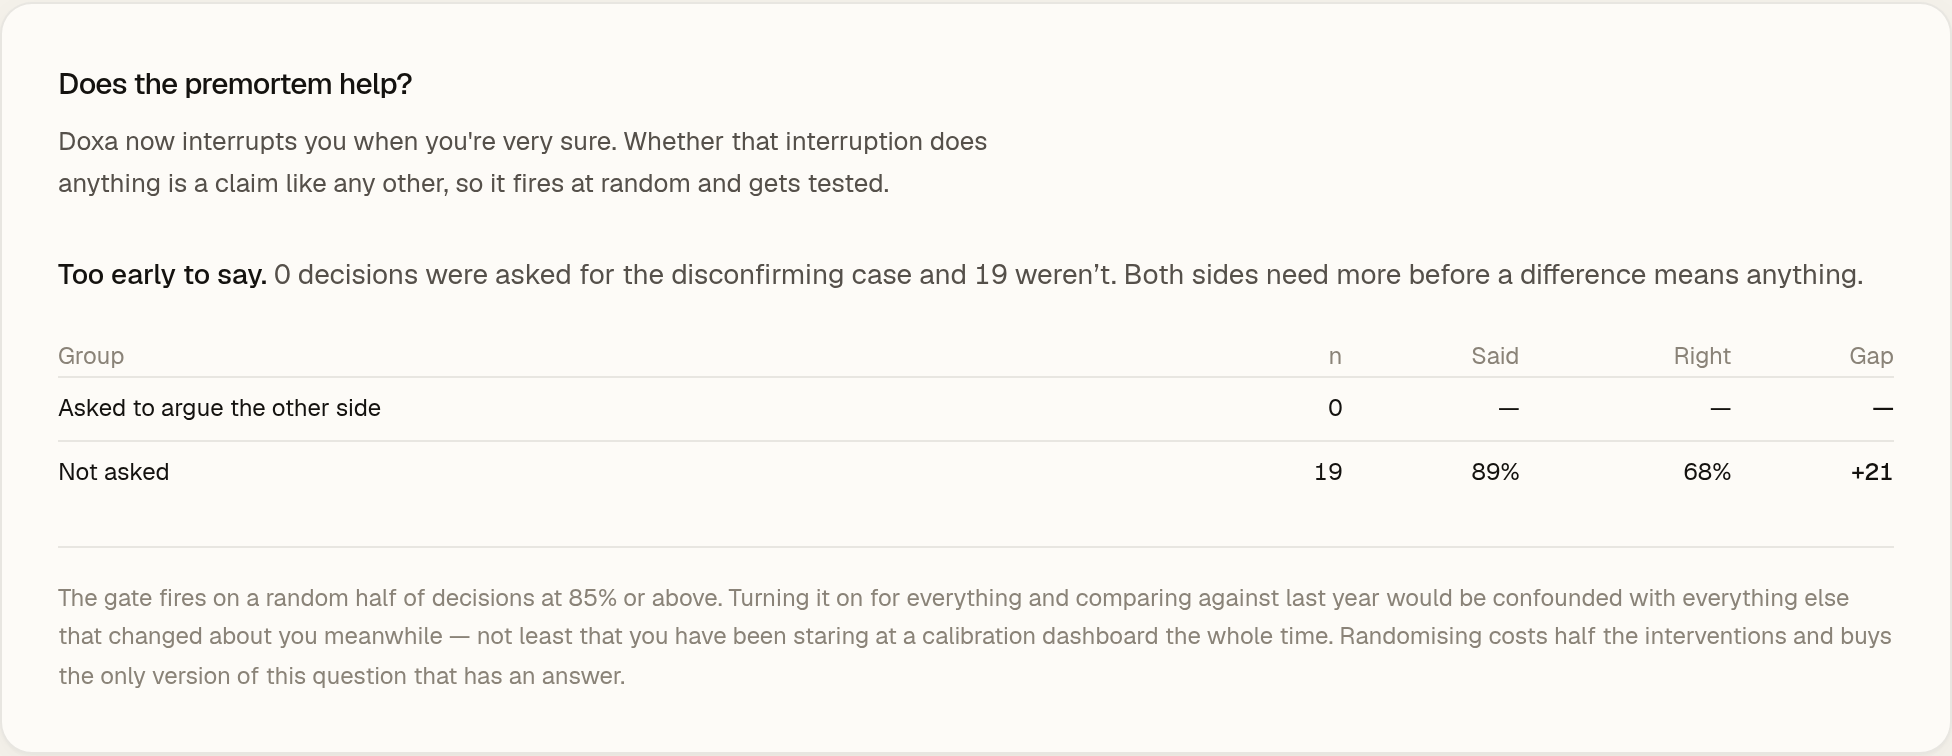
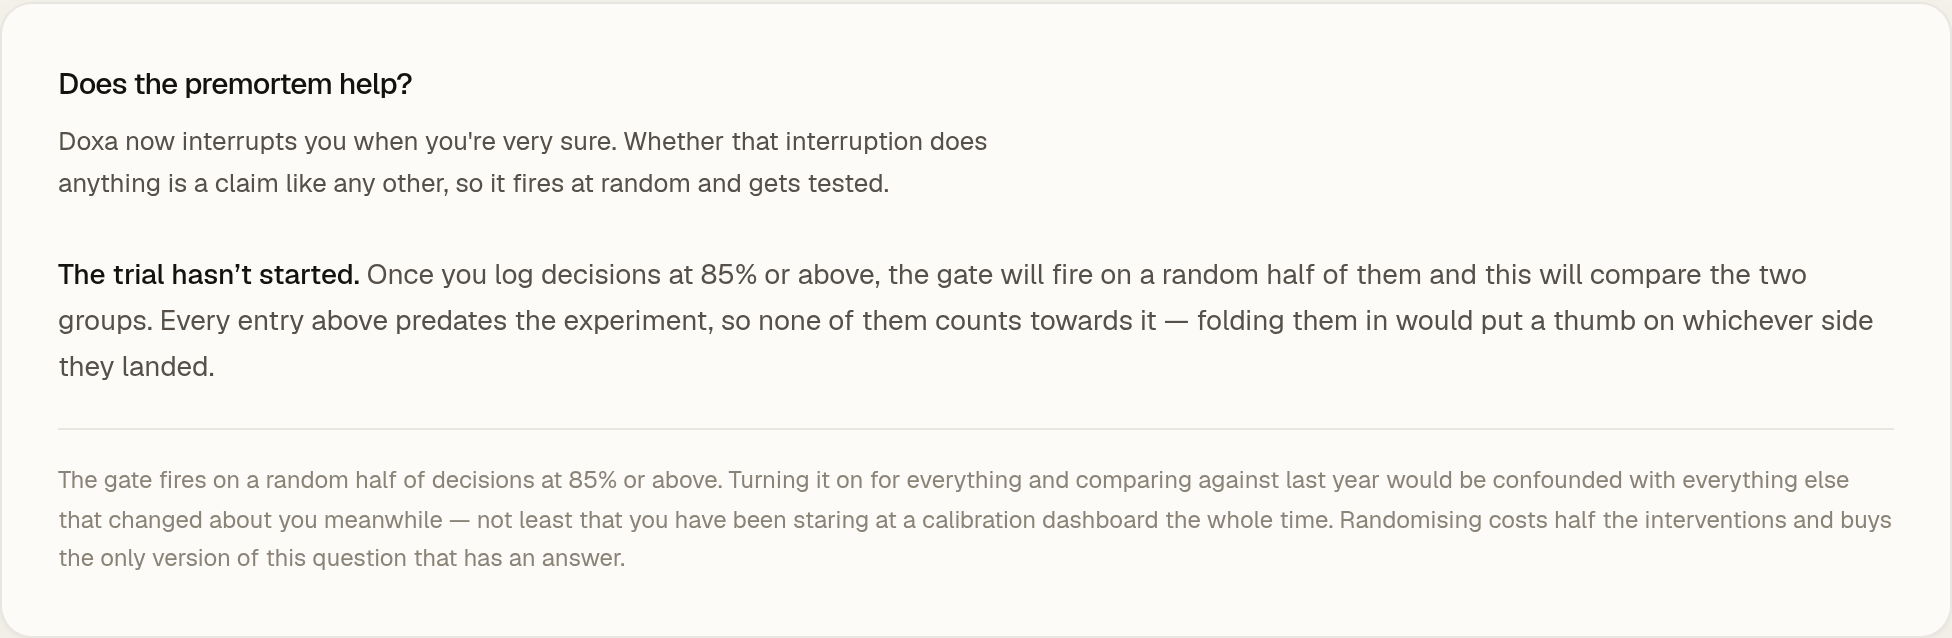
Keep pre-experiment decisions out of both arms
The seed marked every entry as unassigned, which put nineteen
high-confidence decisions into the control group of a trial none of them
took part in. Nothing was withheld from them — the gate did not exist —
so counting them as controls stacked that arm with a year of un-intervened
decisions and made the comparison meaningless.

This is exactly the error the card's own copy warns about, which is a
useful reminder that writing the caveat is not the same as honouring it.

The assignment is nullable now: true, false, or "predates the experiment".
The trial reads as not started on the seeded journal, which is what it is.

diff --git a/src/lib/experiment.test.ts b/src/lib/experiment.test.ts
@@ -62,3 +62,28 @@ describe("premortemExperiment", () => {
     expect(r.p).toBeGreaterThan(0);
   });
 });
+
+describe("entries from before the experiment", () => {
+  it("are counted in neither arm", () => {
+    // The seeded journal is entirely pre-experiment. Landing it in the control
+    // group would stack that arm with a year of decisions the intervention was
+    // never withheld from, and the comparison would be meaningless.
+    const r = premortemExperiment([
+      ...Array.from({ length: 19 }, () => row(90, "incorrect", null)),
+      ...arm(6, 90, 4, true),
+      ...arm(6, 90, 4, false),
+    ]);
+    expect(r.asked.n).toBe(6);
+    expect(r.notAsked.n).toBe(6);
+    expect(r.comparable).toBe(true);
+  });
+
+  it("leave the trial reading as not started when they are all there is", () => {
+    const r = premortemExperiment(
+      Array.from({ length: 19 }, () => row(90, "incorrect", null))
+    );
+    expect(r.asked.n).toBe(0);
+    expect(r.notAsked.n).toBe(0);
+    expect(r.comparable).toBe(false);
+  });
+});

diff --git a/prisma/seed.ts b/prisma/seed.ts
@@ -708,11 +708,12 @@ async function main() {
         consultedOthers: e.consultedOthers,
         resolutionDate: new Date(e.resolutionDate).toISOString(),
         falsifier: falsifierFor(e.decision, e.createdAt),
-        // The premortem gate postdates every entry in this file. Assigning it
-        // retroactively would invent an experiment that never ran, and the
-        // point of randomising it is that the answer isn't decided in advance.
+        // The premortem gate postdates every entry in this file, so these
+        // belong to neither arm. Marking them as controls would be worse than
+        // fabricating an effect: it would quietly stack the comparison group
+        // with a year of decisions the intervention was never withheld from.
         premortem: null,
-        premortemAssigned: false,
+        premortemAssigned: null,
       },
     });
 

diff --git a/src/lib/journal/events.ts b/src/lib/journal/events.ts
@@ -36,8 +36,12 @@ export type EventPayloads = {
     /**
      * Whether the premortem gate fired. Recorded even when it didn't, because
      * the decisions it skipped are the control group.
+     *
+     * Null for decisions made before the experiment existed. They are not
+     * controls — nothing was withheld from them — and counting them as such
+     * would load the arm they landed in with a year of un-intervened decisions.
      */
-    premortemAssigned: boolean;
+    premortemAssigned: boolean | null;
   };
   /**
    * What the person believed they had said, committed to the log *before* the

diff --git a/README.md b/README.md
@@ -27,6 +27,14 @@ of thing you can't tell yourself.
 
 ## What it does
 
+- **Your own record, while you choose the number.** As you drag the confidence slider the
+  form says what decisions at that level have actually come in at — and typing a category
+  adds the base rate for decisions like this one. Every other surface reports on decisions
+  already made; this is the only one that can change one.
+- **A premortem above 85%.** It's a year from now and this went wrong: what happened? The
+  entry isn't accepted until that's written. It fires on a **random half** of qualifying
+  decisions, so the app can find out whether its own intervention helps rather than
+  assuming it — and reports the comparison, including when the answer is "not yet".
 - **Log a decision** with your reasoning, a confidence percentage, when you expect to know,
   and — required — what would make it wrong. That last one is frozen at creation, because
   a criterion you write after the outcome is a criterion you write in your own favour.
@@ -202,7 +210,7 @@ npm run analyze
 npm test
 ```
 
-196 tests. The calibration maths (bucket boundaries, Wilson intervals, Brier score, the ECE
+209 tests. The calibration maths (bucket boundaries, Wilson intervals, Brier score, the ECE
 cancellation case, empty-journal paths), form validation including the UTC date bug and
 impossible dates like `2026-02-31`, and the model-response parsing contract — that last one
 runs without an API key, since malformed output is the failure most likely to reach a user.
@@ -252,6 +260,12 @@ into the slow decisions that actually matter.
 - **The synthetic recall values are deliberately weak.** Like the rest of the seed they are
   invented, so they were built to produce an inconclusive result rather than a dramatic
   one. Planting an effect and letting the app announce it would demonstrate nothing.
+- **The experiment is on one person.** The premortem trial is randomised, which removes
+  the confounding a before-and-after comparison would carry, but n is however many
+  high-confidence decisions you log. Expect it to say "too early" for a long time.
+- **The gate can be dodged.** The assignment travels with the form, so a determined user
+  could bypass it — which only means they have opted out of their own experiment. It is
+  enforced server-side against everything short of that.
 - **Local inference is weaker.** The privacy-preserving path is also the less capable
   one. The app is honest about which produced a given read rather than pretending the
   choice is free.

diff --git a/SUBMISSION.md b/SUBMISSION.md
@@ -62,6 +62,14 @@ with someone carry almost the same stated confidence — and land very different
 
 ### Main Features
 
+- **It intervenes, and then checks whether the intervention worked.** The entry
+  form shows what your confidence at this level has actually been worth, as you
+  choose it. Above 85% it makes you write the disconfirming case before the entry
+  is accepted — on a **random half** of qualifying decisions, because a tool that
+  changes your decisions and never tests the change is asking for exactly the
+  faith it exists to withdraw. The dashboard reports that trial like any other
+  claim, including when the honest answer is "too early to say".
+
 - **Claims are tested, not asserted.** Every hypothesis about how you reason
   carries a machine-checkable predicate, is generated from your earlier
   decisions only, and is scored against the ones held back from it — with a
@@ -144,7 +152,7 @@ with someone carry almost the same stated confidence — and land very different
 - **Pluggable inference** — a local model via **Ollama** by default, **Google Gemini**
   (`@google/genai`) only on explicit per-run consent. One response schema, translated
   per backend, re-validated with **Zod** server-side
-- **Vitest** — 196 tests over the calibration maths, the hash chain and its
+- **Vitest** — 209 tests over the calibration maths, the hash chain and its
   canonical encoding, every invalid state transition in the projection, form
   validation, and the model-response parsing contract
 - Statistics: Wilson score intervals, Brier score, expected calibration error, and a
